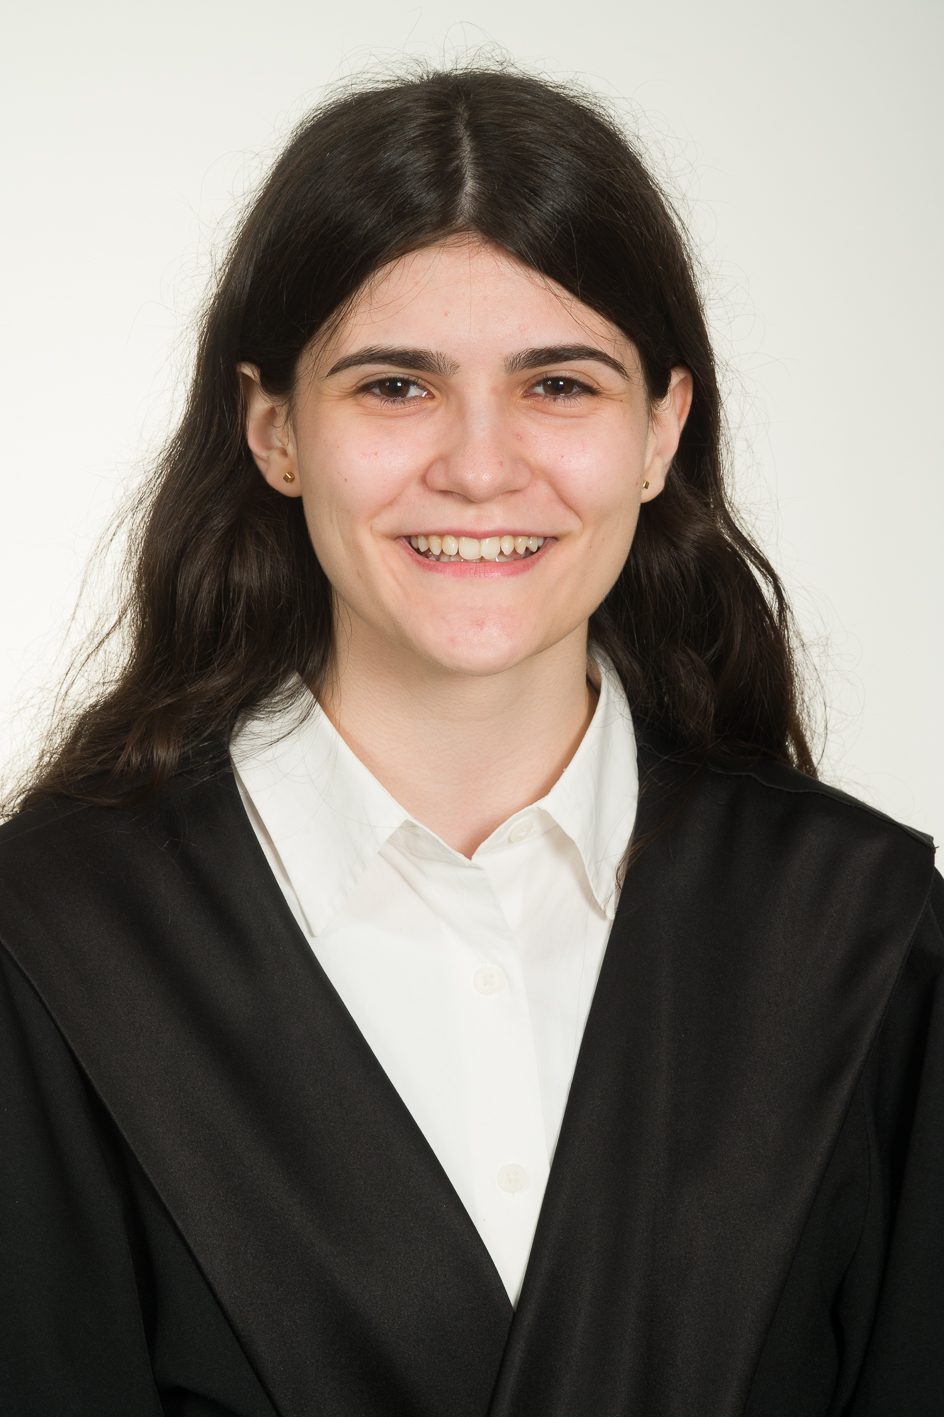
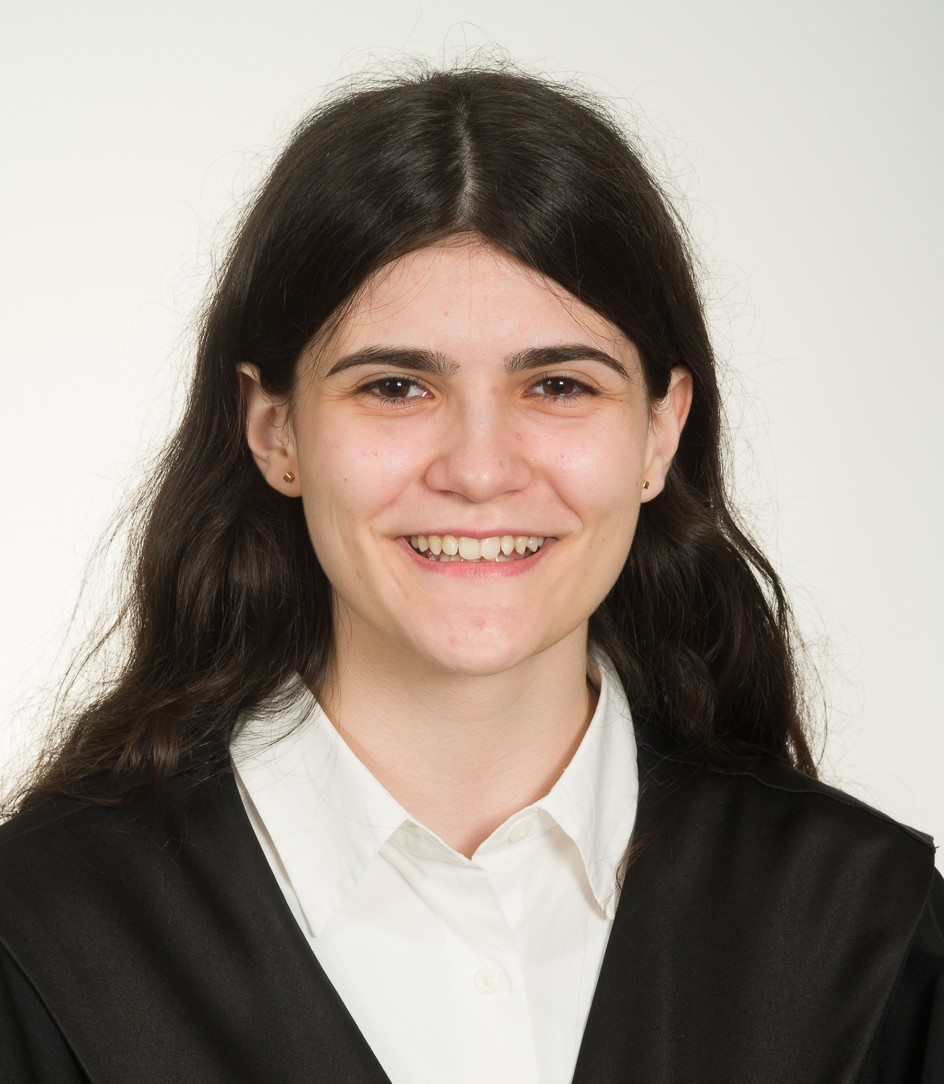
improved aboutme style

diff --git a/aboutme.md b/aboutme.md
@@ -4,106 +4,77 @@ title: About me
 subtitle: A brief personal description
 ---
 
-Hi! I am Laia, a Biomedical Engineer from Barcelona. I'm really passionate about the intersection of tech and medicine — whether it's building AI tools for hospitals, designing medical devices, or driving data-powered research. Take a look at my background below!
+Hi! I am Laia, a Biomedical Engineer from Barcelona. I'm really passionate about the intersection of tech and medicine, whether it's building AI tools for hospitals, designing medical devices, or driving data-powered research. Take a look at my background below!
 
----
+<h3 style="margin-top: 36px; color: #7aabb8;">Education</h3>
 
-<h3><i class="fas fa-graduation-cap"></i>&nbsp; Education</h3>
-
-
-<div class="card mb-3 shadow-sm" style="border: none; border-left: 4px solid #5b9bd5;">
-  <div class="card-body py-3">
-    <h5 class="card-title mb-1">MSc in Health Data Science</h5>
-    <h6 class="card-subtitle text-muted">Coordinated by the University of Rovira i Virgili</h6>
-    <small class="text-muted"><i class="fas fa-calendar-alt"></i>&nbsp; September 2025 – Present</small>
-  </div>
+<div style="padding: 14px 0; border-bottom: 1px solid #eeeeee; border-left: 3px solid #c5dee6; padding-left: 12px;">
+  <span style="font-size: 1em; font-weight: 500;">MSc in Health Data Science</span><br>
+  <span style="color: #888; font-size: 0.9em;">Coordinated by the University of Rovira i Virgili</span><br>
+  <span style="color: #bbb; font-size: 0.82em;">September 2025 – Present</span>
 </div>
 
-<div class="card mb-4 shadow-sm" style="border: none; border-left: 4px solid #5b9bd5;">
-  <div class="card-body py-3">
-    <h5 class="card-title mb-1">Bachelor's in Biomedical Engineering</h5>
-    <h6 class="card-subtitle text-muted">University of Barcelona, Campus Clínic</h6>
-    <small class="text-muted"><i class="fas fa-calendar-alt"></i>&nbsp; September 2021 – June 2025</small>
-  </div>
+<div style="padding: 14px 0; border-bottom: 1px solid #eeeeee; border-left: 3px solid #c5dee6; padding-left: 12px;">
+  <span style="font-size: 1em; font-weight: 500;">Bachelor's in Biomedical Engineering</span><br>
+  <span style="color: #888; font-size: 0.9em;">University of Barcelona, Campus Clínic</span><br>
+  <span style="color: #bbb; font-size: 0.82em;">September 2021 – June 2025</span>
 </div>
 
----
+<h3 style="margin-top: 36px; color: #7aabb8;">Experience</h3>
 
-<h3><i class="fas fa-briefcase"></i>&nbsp; Experience</h3>
-
-
-<div class="card mb-3 shadow-sm" style="border: none; border-left: 4px solid #5cb85c;">
-  <div class="card-body py-3">
-    <h5 class="card-title mb-1">Generative AI Health Research Assistant</h5>
-    <h6 class="card-subtitle text-muted">Hospital Clínic de Barcelona, Medical Informatics Dpt.</h6>
-    <small class="text-muted"><i class="fas fa-calendar-alt"></i>&nbsp; September 2025 – Present</small>
-  </div>
+<div style="padding: 14px 0; border-bottom: 1px solid #eeeeee; border-left: 3px solid #c5dee6; padding-left: 12px;">
+  <span style="font-size: 1em; font-weight: 500;">Generative AI Health Research Assistant</span><br>
+  <span style="color: #888; font-size: 0.9em;">Hospital Clínic de Barcelona, Medical Informatics Dpt.</span><br>
+  <span style="color: #bbb; font-size: 0.82em;">September 2025 – Present</span>
 </div>
 
-<div class="card mb-3 shadow-sm" style="border: none; border-left: 4px solid #5cb85c;">
-  <div class="card-body py-3">
-    <h5 class="card-title mb-1">Blood Rheological Properties Data Analysis</h5>
-    <h6 class="card-subtitle text-muted">University of Barcelona, Dpt. of Condensed Matter Physics</h6>
-    <small class="text-muted"><i class="fas fa-calendar-alt"></i>&nbsp; January 2025 – Present</small>
-  </div>
+<div style="padding: 14px 0; border-bottom: 1px solid #eeeeee; border-left: 3px solid #c5dee6; padding-left: 12px;">
+  <span style="font-size: 1em; font-weight: 500;">Blood Rheological Properties Data Analysis</span><br>
+  <span style="color: #888; font-size: 0.9em;">University of Barcelona, Dpt. of Condensed Matter Physics</span><br>
+  <span style="color: #bbb; font-size: 0.82em;">January 2025 – Present</span>
 </div>
 
-<div class="card mb-3 shadow-sm" style="border: none; border-left: 4px solid #5cb85c;">
-  <div class="card-body py-3">
-    <h5 class="card-title mb-1">Software Development in Healthcare Applications</h5>
-    <h6 class="card-subtitle text-muted">Grupo Prídes</h6>
-    <small class="text-muted"><i class="fas fa-calendar-alt"></i>&nbsp; April 2024 – August 2025</small>
-  </div>
+<div style="padding: 14px 0; border-bottom: 1px solid #eeeeee; border-left: 3px solid #c5dee6; padding-left: 12px;">
+  <span style="font-size: 1em; font-weight: 500;">Software Development in Healthcare Applications</span><br>
+  <span style="color: #888; font-size: 0.9em;">Grupo Prídes</span><br>
+  <span style="color: #bbb; font-size: 0.82em;">April 2024 – August 2025</span>
 </div>
 
-<div class="card mb-4 shadow-sm" style="border: none; border-left: 4px solid #5cb85c;">
-  <div class="card-body py-3">
-    <h5 class="card-title mb-1">Cytoskeleton Mechanobiology Research Intern</h5>
-    <h6 class="card-subtitle text-muted">University of Barcelona, Unit of Biophysics and Bioengineering</h6>
-    <small class="text-muted"><i class="fas fa-calendar-alt"></i>&nbsp; June 2024 – August 2024</small>
-  </div>
+<div style="padding: 14px 0; border-bottom: 1px solid #eeeeee; border-left: 3px solid #c5dee6; padding-left: 12px;">
+  <span style="font-size: 1em; font-weight: 500;">Cytoskeleton Mechanobiology Research Intern</span><br>
+  <span style="color: #888; font-size: 0.9em;">University of Barcelona, Unit of Biophysics and Bioengineering</span><br>
+  <span style="color: #bbb; font-size: 0.82em;">June 2024 – August 2024</span>
 </div>
 
----
+<h3 style="margin-top: 36px; color: #7aabb8;">Favorite projects & highlights</h3>
 
-<h3><i class="fas fa-star"></i>&nbsp; Favorite projects &amp; highlights</h3>
+<p style="color: #aaa; font-size: 0.88em; margin: 0 0 8px 0;">All projects were completed as part of interdisciplinary teams.</p>
 
-<p><em>All projects were completed as part of interdisciplinary teams.</em></p>
-
-
-<div class="card mb-3 shadow-sm" style="border: none; border-left: 4px solid #f0ad4e;">
-  <div class="card-body py-3">
-    <h5 class="card-title mb-1">AI-based pharmacogenetic report generator</h5>
-    <h6 class="card-subtitle text-muted">GenAI Health Project &middot; NTT Data Barcelona</h6>
-    <small class="text-muted"><i class="fas fa-calendar-alt"></i>&nbsp; 2026</small>
-    <p class="card-text mt-2 mb-0">Developed an AI-based application for automated generation of pharmacogenetic reports.</p>
-  </div>
+<div style="padding: 14px 0; border-bottom: 1px solid #eeeeee; border-left: 3px solid #c5dee6; padding-left: 12px;">
+  <span style="font-size: 1em; font-weight: 500;">AI-based pharmacogenetic report generator</span><br>
+  <span style="color: #888; font-size: 0.9em;">GenAI Health Project &middot; NTT Data Barcelona</span><br>
+  <span style="color: #bbb; font-size: 0.82em;">2026</span><br>
+  <span style="color: #666; font-size: 0.9em;">Developed an AI-based application for automated generation of pharmacogenetic reports.</span>
 </div>
 
-<div class="card mb-3 shadow-sm" style="border: none; border-left: 4px solid #f0ad4e;">
-  <div class="card-body py-3">
-    <h5 class="card-title mb-1">HealthTech2030 Innovation Challenge</h5>
-    <h6 class="card-subtitle text-muted">UPC</h6>
-    <small class="text-muted"><i class="fas fa-calendar-alt"></i>&nbsp; 2025</small>
-    <p class="card-text mt-2 mb-0">Contributed to "AURA," an adaptive system for detecting early epileptic seizures in children.</p>
-  </div>
+<div style="padding: 14px 0; border-bottom: 1px solid #eeeeee; border-left: 3px solid #c5dee6; padding-left: 12px;">
+  <span style="font-size: 1em; font-weight: 500;">HealthTech2030 Innovation Challenge</span><br>
+  <span style="color: #888; font-size: 0.9em;">UPC</span><br>
+  <span style="color: #bbb; font-size: 0.82em;">2025</span><br>
+  <span style="color: #666; font-size: 0.9em;">Contributed to "AURA," an adaptive system for detecting early epileptic seizures in children.</span>
 </div>
 
-<div class="card mb-3 shadow-sm" style="border: none; border-left: 4px solid #f0ad4e;">
-  <div class="card-body py-3">
-    <h5 class="card-title mb-1">SensUs International Competition</h5>
-    <h6 class="card-subtitle text-muted">Eindhoven University of Technology</h6>
-    <small class="text-muted"><i class="fas fa-calendar-alt"></i>&nbsp; 2024 – 2025</small>
-    <p class="card-text mt-2 mb-0">Designed a biosensor for continuous creatinine monitoring.</p>
-  </div>
+<div style="padding: 14px 0; border-bottom: 1px solid #eeeeee; border-left: 3px solid #c5dee6; padding-left: 12px;">
+  <span style="font-size: 1em; font-weight: 500;">SensUs International Competition</span><br>
+  <span style="color: #888; font-size: 0.9em;">Eindhoven University of Technology</span><br>
+  <span style="color: #bbb; font-size: 0.82em;">2024 – 2025</span><br>
+  <span style="color: #666; font-size: 0.9em;">Designed a biosensor for continuous creatinine monitoring.</span>
 </div>
 
-<div class="card mb-3 shadow-sm" style="border: none; border-left: 4px solid #f0ad4e;">
-  <div class="card-body py-3">
-    <h5 class="card-title mb-1">GenAI Health Hack Hackathon</h5>
-    <h6 class="card-subtitle text-muted">NTT Data Barcelona</h6>
-    <small class="text-muted"><i class="fas fa-calendar-alt"></i>&nbsp; 2024</small>
-    <p class="card-text mt-2 mb-0">Developed a dynamic, AI-guided clinical case simulator using LLMs to train medical residents.</p>
-  </div>
+<div style="padding: 14px 0; border-bottom: 1px solid #eeeeee; border-left: 3px solid #c5dee6; padding-left: 12px;">
+  <span style="font-size: 1em; font-weight: 500;">GenAI Health Hack Hackathon</span><br>
+  <span style="color: #888; font-size: 0.9em;">NTT Data Barcelona</span><br>
+  <span style="color: #bbb; font-size: 0.82em;">2024</span><br>
+  <span style="color: #666; font-size: 0.9em;">Developed a dynamic, AI-guided clinical case simulator using LLMs to train medical residents.</span>
 </div>
 
